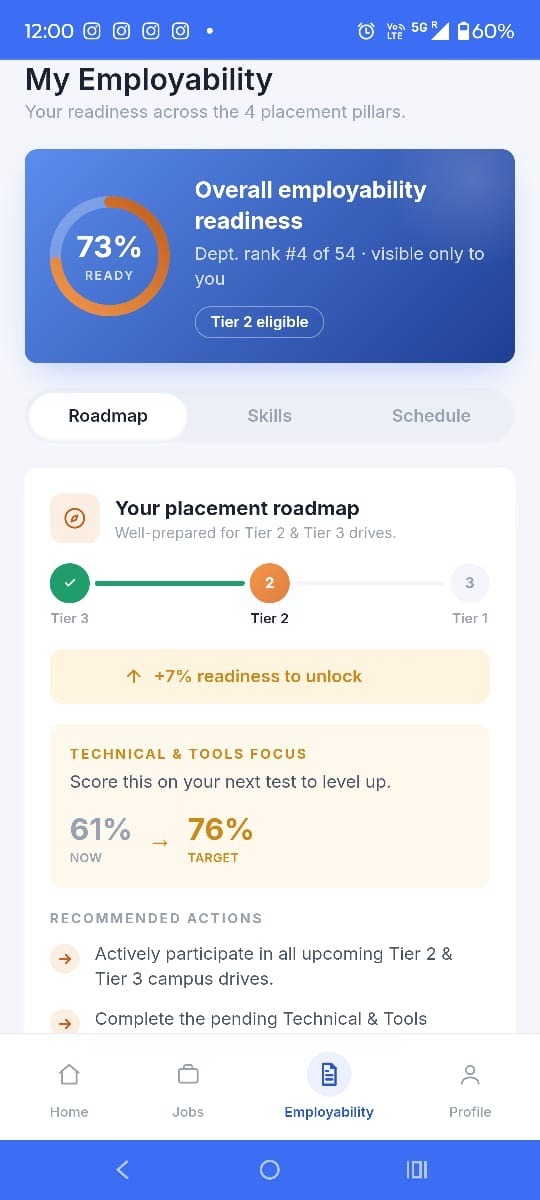
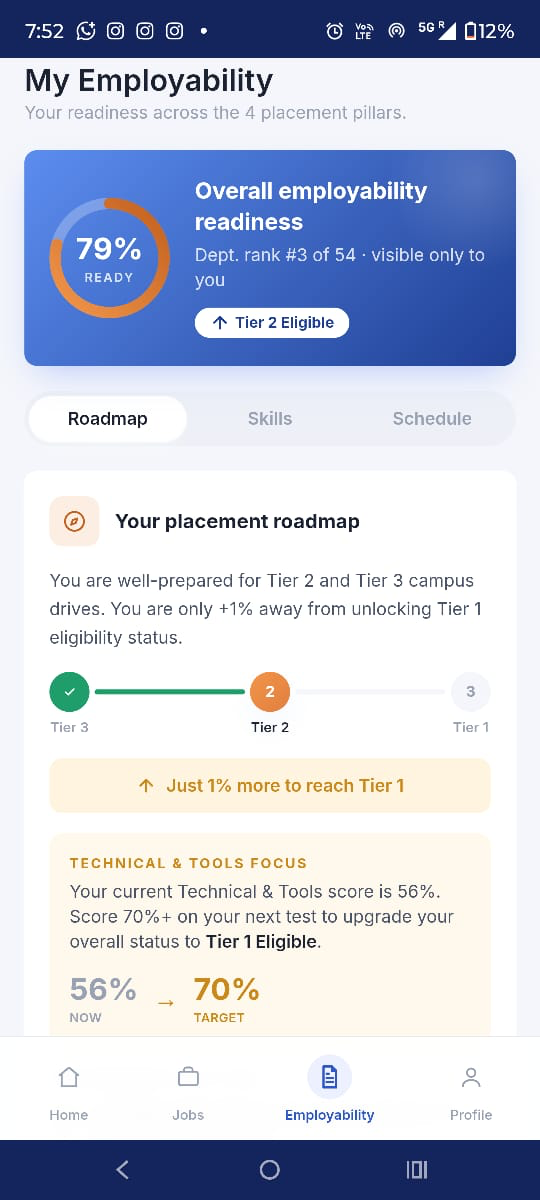
feat(web): student-app screenshot gallery on /mobile
Six real captures of the student app (demo data) in a scroll-snap phone
gallery under "For Students": home, employability, jobs, applications,
tracker, notifications. Replaces the single employability phone.
student-employability.png refreshed to the 79%-ready capture.

diff --git a/apps/web/app/mobile/page.tsx b/apps/web/app/mobile/page.tsx
@@ -21,6 +21,39 @@ export const metadata: Metadata = {
   alternates: { canonical: '/mobile' },
 };
 
+const STUDENT_SHOTS: { src: string; alt: string; caption: string }[] = [
+  {
+    src: '/screenshots/student-home.png',
+    alt: 'Student app home — readiness banner, quick actions and a live list of applications',
+    caption: 'Home — readiness & applications at a glance',
+  },
+  {
+    src: '/screenshots/student-employability.png',
+    alt: 'My Employability — 79% ready, department rank, tier badge and a placement roadmap',
+    caption: 'Employability — readiness, tier & roadmap',
+  },
+  {
+    src: '/screenshots/student-jobs.png',
+    alt: 'Jobs list — Open / Applied / Closed tabs with per-job lifecycle and application status',
+    caption: 'Jobs — filtered by where each one stands',
+  },
+  {
+    src: '/screenshots/student-applications.png',
+    alt: 'Application timeline — every round, cleared or not, and the offer when selected',
+    caption: 'Applications — round-by-round timeline',
+  },
+  {
+    src: '/screenshots/student-tracker.png',
+    alt: 'Placement Tracker — applications, interviews, selections and an application funnel',
+    caption: 'Tracker — the season in one view',
+  },
+  {
+    src: '/screenshots/student-notifications.png',
+    alt: 'Notifications — new jobs, scheduled rounds, results and offer updates',
+    caption: 'Notifications — the moment things happen',
+  },
+];
+
 export default function MobilePage() {
   return (
     <div className="min-h-screen bg-app">
@@ -80,29 +113,29 @@ export default function MobilePage() {
           </p>
         </div>
 
-        <div className="mt-11 flex flex-col items-center gap-10 lg:flex-row lg:items-start lg:justify-center">
-          <div className="flex flex-shrink-0 flex-col items-center">
-            <PhoneShot
-              src="/screenshots/student-employability.png"
-              alt="Student employability screen — readiness score, department rank, tier badge and roadmap with recommended actions"
-            />
-            <p className="mt-3 text-xs text-subtle">Employability — readiness, tier &amp; roadmap.</p>
-          </div>
-          <div className="grid max-w-lg grid-cols-1 gap-4 sm:grid-cols-2">
-            {STUDENT_FEATURES.map((f) => (
-              <div key={f.title} className="flex gap-3 rounded-card bg-card p-5 shadow-card">
-                <div className={`mt-0.5 flex h-[30px] w-[30px] flex-shrink-0 items-center justify-center rounded-md ${TINT_BG[f.tint]}`}>
-                  <span className={TINT_FG[f.tint]}>
-                    <CheckIcon />
-                  </span>
-                </div>
-                <div>
-                  <p className="text-sm font-bold text-strong">{f.title}</p>
-                  <p className="mt-0.5 text-xs leading-relaxed text-subtle">{f.body}</p>
-                </div>
+        <div className="mt-10 grid grid-cols-1 gap-4 sm:grid-cols-2 lg:grid-cols-3">
+          {STUDENT_FEATURES.map((f) => (
+            <div key={f.title} className="flex gap-3 rounded-card bg-card p-5 shadow-card">
+              <div className={`mt-0.5 flex h-[30px] w-[30px] flex-shrink-0 items-center justify-center rounded-md ${TINT_BG[f.tint]}`}>
+                <span className={TINT_FG[f.tint]}>
+                  <CheckIcon />
+                </span>
               </div>
-            ))}
-          </div>
+              <div>
+                <p className="text-sm font-bold text-strong">{f.title}</p>
+                <p className="mt-0.5 text-xs leading-relaxed text-subtle">{f.body}</p>
+              </div>
+            </div>
+          ))}
+        </div>
+
+        <div className="mt-12 flex snap-x gap-6 overflow-x-auto pb-4 lg:flex-wrap lg:justify-center lg:overflow-visible">
+          {STUDENT_SHOTS.map((s) => (
+            <figure key={s.src} className="flex w-[210px] flex-shrink-0 snap-center flex-col items-center">
+              <PhoneShot src={s.src} alt={s.alt} />
+              <figcaption className="mt-3 text-center text-xs text-subtle">{s.caption}</figcaption>
+            </figure>
+          ))}
         </div>
       </Section>
 

diff --git a/apps/web/public/screenshots/README.md b/apps/web/public/screenshots/README.md
@@ -1,11 +1,24 @@
 # Marketing screenshots
 
-Referenced by `<Shot>` / `<PhoneShot>` in `components/site-sections.tsx`.
-PII-safe demo data only — never a capture of the production database.
+Referenced by `<Shot>` / `<PhoneShot>` in `components/site-sections.tsx` and the
+marketing pages. PII-safe demo data only — never a capture of the production
+database.
+
+## Desktop
 
 | File | Image | Used on |
 |---|---|---|
 | `officer-dashboard.png` | Placement Officer dashboard (St Francis College demo) | `/`, `/product`, `/insights`, `/mobile` |
-| `student-employability.png` | Student app — My Employability (readiness / tier / roadmap) | `/`, `/readiness`, `/mobile` |
 | `complexity-to-clarity.png` | "From Placement Complexity to Placement Clarity" infographic | `/product` |
 | `challenges-solution.png` | "Simplifying Placements. Empowering Futures." infographic | *(spare — not wired)* |
+
+## Student app (mobile, 540×1200)
+
+| File | Screen | Used on |
+|---|---|---|
+| `student-home.png` | Home — readiness banner + applications | `/mobile` gallery |
+| `student-employability.png` | My Employability — readiness / tier / roadmap | `/`, `/readiness`, `/mobile` |
+| `student-jobs.png` | Jobs — Open / Applied / Closed | `/mobile` gallery |
+| `student-applications.png` | Application timeline — round by round | `/mobile` gallery |
+| `student-tracker.png` | Placement Tracker — funnel | `/mobile` gallery |
+| `student-notifications.png` | Notifications feed | `/mobile` gallery |
